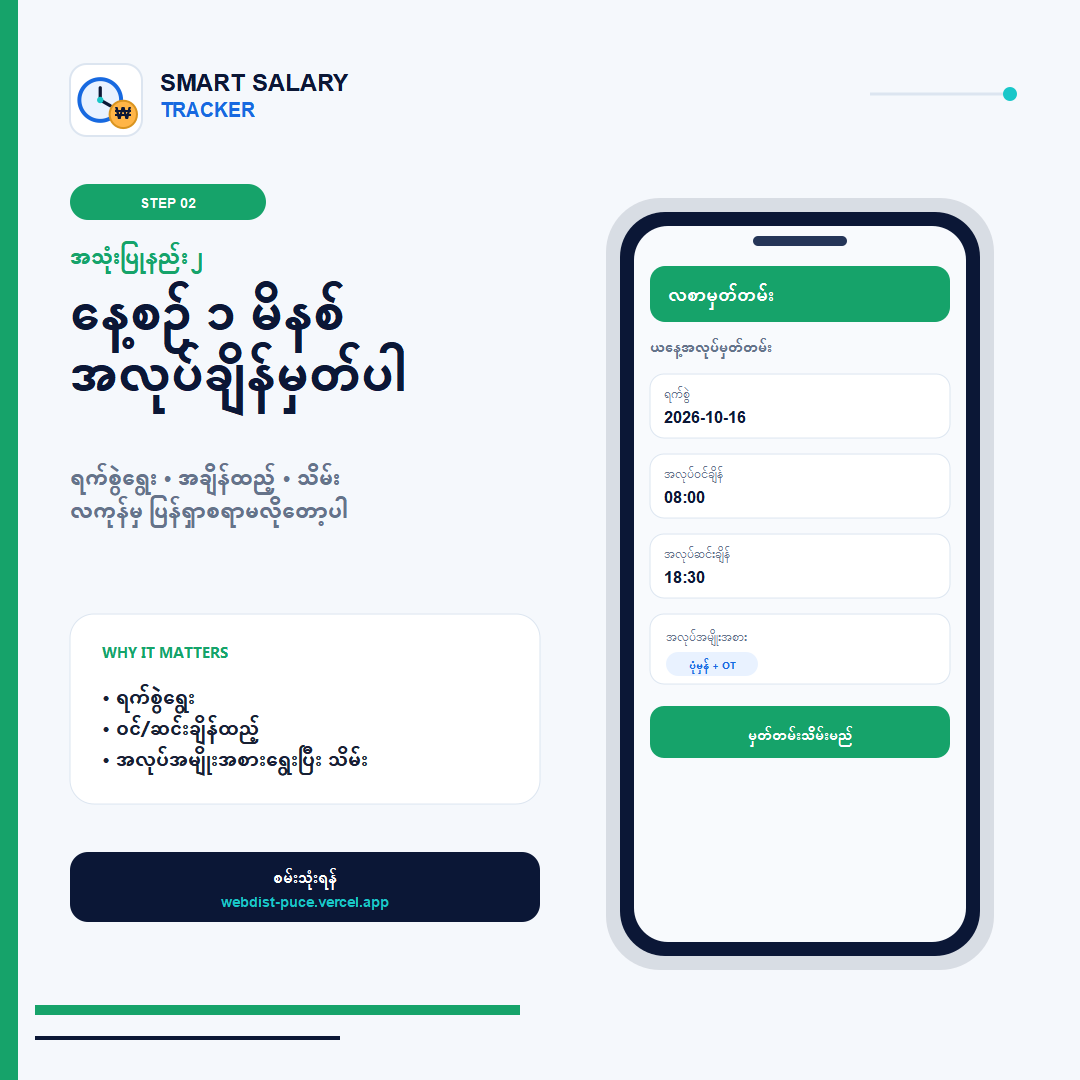
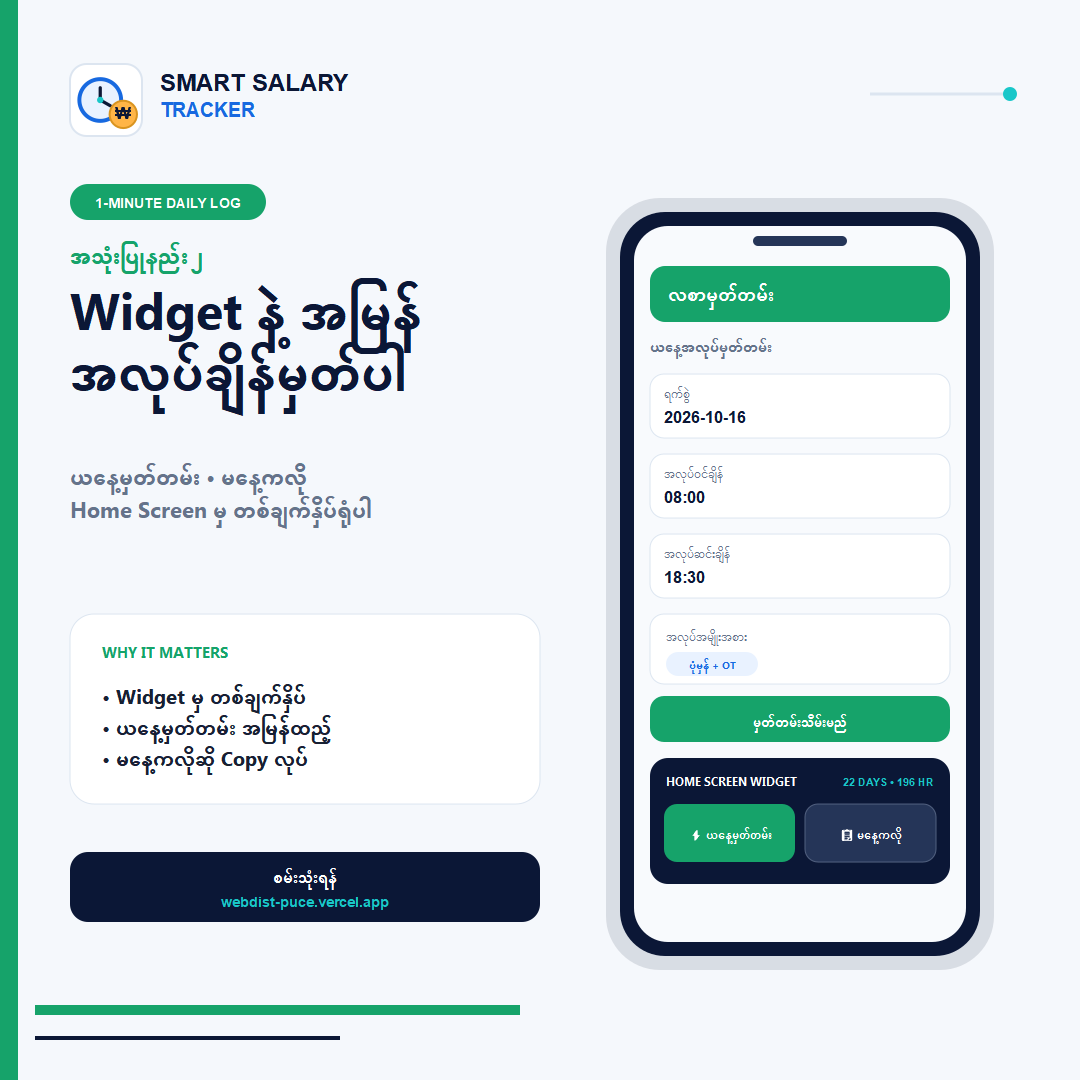
content: feature widget in daily log post

diff --git a/marketing/facebook-campaign-2026/facebook-posts.md b/marketing/facebook-campaign-2026/facebook-posts.md
@@ -64,17 +64,35 @@ WebApp: https://webdist-puce.vercel.app
 
 **Caption:**
 
-နေ့စဉ်အလုပ်မှတ်တမ်းထည့်တာ ၃ ဆင့်ပဲ လိုပါတယ်။
+နေ့တိုင်း အလုပ်ချိန်မှတ်ဖို့ App ထဲမှာ အဆင့်ဆင့်လိုက်ရှာနေစရာ မလိုတော့ပါဘူး။ Smart Salary Tracker Widget ကို ဖုန်း Home Screen မှာ ထားလိုက်ရင် **တစ်ချက်နှိပ်ရုံနဲ့ အမြန်မှတ်နိုင်ပါပြီ။**
+
+နေ့စဉ်မှတ်တမ်းထည့်တာ ၃ ဆင့်ပဲ လိုပါတယ်။
 
 1. ပြက္ခဒိန်မှ ရက်စွဲရွေးပါ။
 2. အလုပ်ဝင်ချိန်နဲ့ ဆင်းချိန် ထည့်ပါ။
 3. ပုံမှန်၊ ညဆိုင်း၊ ပိတ်ရက် သို့မဟုတ် ခွင့်ရက်ကိုရွေးပြီး သိမ်းပါ။
 
-ဒီနေ့မှတ်တမ်းကို ဒီနေ့ပဲထည့်ထားရင် လကုန်မှာ စာရွက်တွေ၊ chat history တွေ ပြန်ရှာစရာမလိုတော့ပါဘူး။ မနေ့ကနဲ့ အလုပ်ချိန်တူရင် copy လုပ်ပြီး အချိန်မြန်မြန်သိမ်းနိုင်ပါတယ်။
+Widget မှာလည်း အမြန်လုပ်ဆောင်ချက် ၂ ခု ပါပါတယ်။
 
-နေ့တိုင်း ၁ မိနစ်၊ လကုန်ရင် အချိန်အများကြီးသက်သာစေပါတယ်။
+⚡ **ယနေ့မှတ်တမ်း** — ဒီနေ့အလုပ်ချိန်ကို ချက်ချင်းထည့်ပါ။
 
-#DailyWorkLog #အလုပ်ချိန်မှတ်တမ်း #OTTracker #MyanmarWorker
+📋 **မနေ့ကလို** — အလုပ်ချိန်တူရင် မနေ့ကမှတ်တမ်းကို ကူးပြီး အချိန်သက်သာပါ။
+
+အလုပ်ဆင်းရက်၊ စုစုပေါင်းနာရီနဲ့ ခန့်မှန်းလစာကိုလည်း Home Screen ပေါ်ကနေ တစ်ချက်ကြည့်နိုင်ပါတယ်။
+
+Widget ထည့်ရန် — Home Screen နေရာလွတ်ကို ဖိထားပါ → **Widgets** → **Smart Salary Tracker** → **Add**
+
+ဒီနေ့မှတ်တမ်းကို ဒီနေ့ပဲထည့်ထားရင် လကုန်မှာ စာရွက်တွေ၊ calculator နဲ့ chat history တွေ ပြန်ရှာစရာမလိုတော့ပါဘူး။
+
+**နေ့တိုင်း ၁ မိနစ်။ လကုန်ရင် အချိန်အများကြီး သက်သာစေပါတယ်။**
+
+🌐 WebApp မှာ စမ်းသုံးရန်
+https://webdist-puce.vercel.app/
+
+📱 Widget ပါတဲ့ Android App ဒေါင်းရန်
+https://webdist-puce.vercel.app/SmartSalaryTracker.apk
+
+#SmartSalaryTracker #DailyWorkLog #အလုပ်ချိန်မှတ်တမ်း #OTTracker #MyanmarWorker
 
 ## Post 05 — Calendar Overview
 
